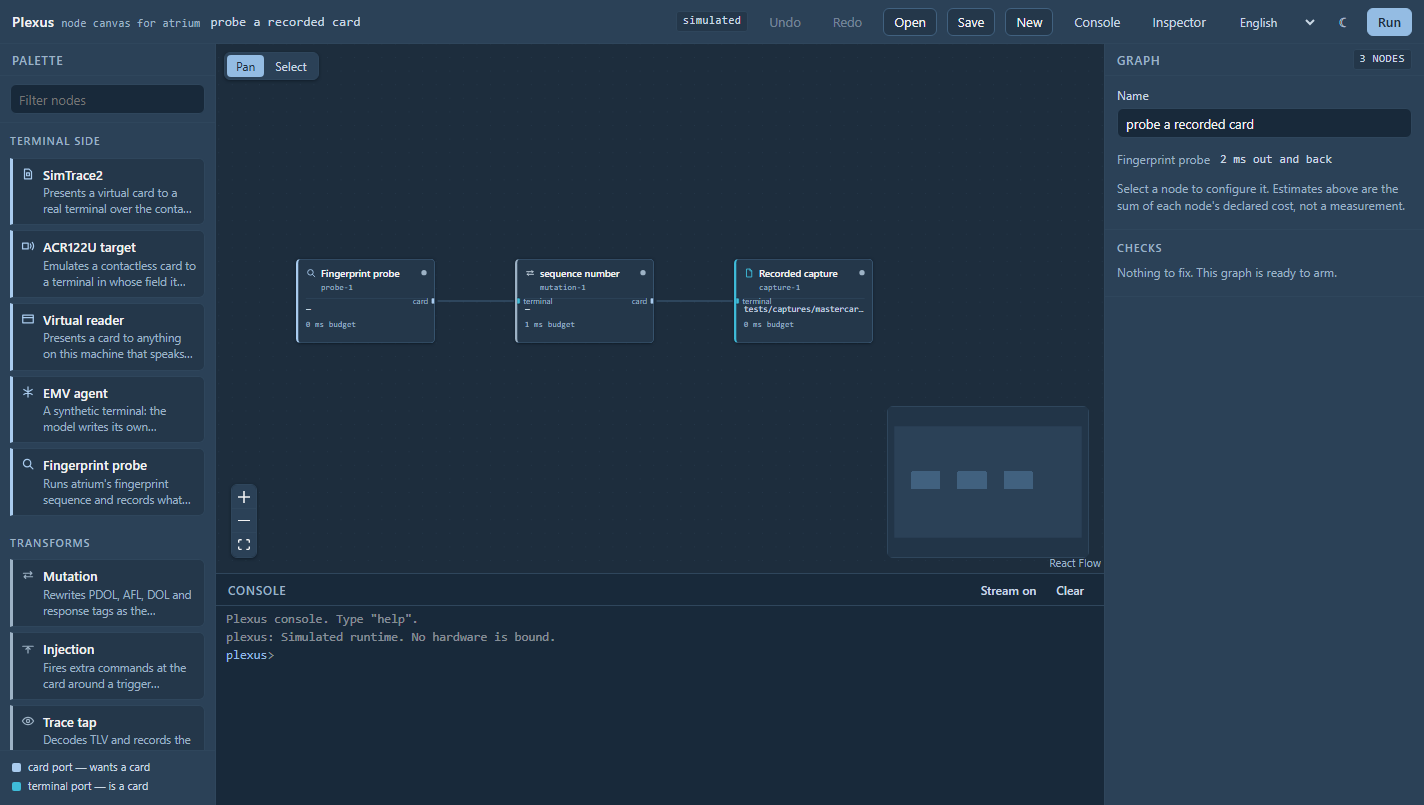
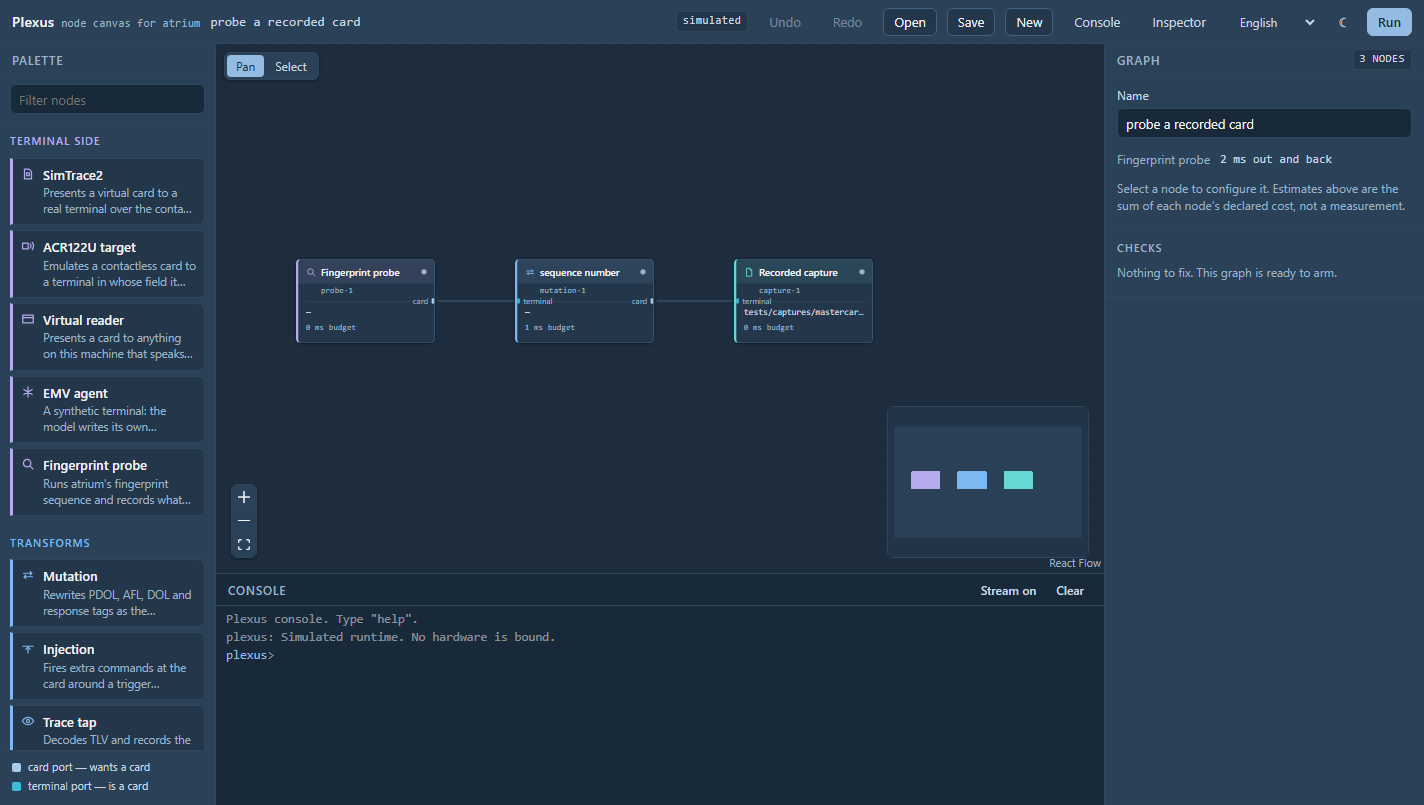
Give the three node classes their own colours
They were sharing the port tokens, which meant terminal side came out light
blue and transforms came out grey-blue — one colour and no colour. Ports say
what an edge *end* is; classes say which side of a conversation a node sits
on. Two facts, so now two systems.

Three steps of 40 degrees, in chain order, so the ramp itself carries meaning:
periwinkle asks, sky transforms, cyan answers. Forty degrees is about the least
that separates instantly at a 3px stripe and a 14px glyph, and it took three
attempts to get there — 10 degrees apart the first time, then 28, both of which
measured fine and read as the same colour.

Lightness could not help. On a navy ground all three have to be *light*: a
mid-tone azure came out at 3.58 against surface-2, so the light/dark/light
trick that works on white is unavailable and hue does all the work. Every value
clears 4.5 on all four grounds in both themes.

The class colour now drives four things — the stripe, the icon, a faint wash
behind the node's header, and the palette's group headings, which were three
identical grey labels you had to read. The minimap is coloured too, so the
overview shows the shape of a chain rather than four identical blocks.

`--port-iso` is retired into `--class-host`: it was within 1.009 luminance of
the new terminal periwinkle, and the iso8583 channel only ever appears on
host-layer nodes anyway.

The minimap took two goes. React Flow's `nodeColor` takes a function and
[…]

diff --git a/ui/src/canvas/canvas.css b/ui/src/canvas/canvas.css
@@ -66,9 +66,30 @@
   fill-opacity: 0.6;
 }
 
+/*
+ * Minimap blocks take their node's class colour, through the cascade rather
+ * than through a prop — see minimapClass. This is why the overview repaints
+ * correctly when the theme swaps.
+ */
 .react-flow__minimap-node {
-  fill: var(--border-strong);
   stroke: none;
+  fill: var(--border-strong);
+}
+
+.react-flow__minimap-node.mmnode--terminal {
+  fill: var(--class-terminal);
+}
+
+.react-flow__minimap-node.mmnode--transform {
+  fill: var(--class-transform);
+}
+
+.react-flow__minimap-node.mmnode--card {
+  fill: var(--class-card);
+}
+
+.react-flow__minimap-node.mmnode--host {
+  fill: var(--class-host);
 }
 
 /* ── Node card ────────────────────────────────────────────────────────── */
@@ -93,20 +114,41 @@
   cursor: grabbing;
 }
 
+/*
+ * The class stripe, its icon and a faint wash behind the header, all from one
+ * token per class. Three cues for the same fact: you should be able to tell
+ * which side of a conversation a node sits on without reading it.
+ */
 .pnode--terminal {
-  border-left-color: var(--port-card);
+  border-left-color: var(--class-terminal);
+}
+
+.pnode--terminal .pnode__head {
+  background: var(--class-terminal-wash);
 }
 
 .pnode--transform {
-  border-left-color: var(--text-faint);
+  border-left-color: var(--class-transform);
+}
+
+.pnode--transform .pnode__head {
+  background: var(--class-transform-wash);
 }
 
 .pnode--card {
-  border-left-color: var(--port-terminal);
+  border-left-color: var(--class-card);
+}
+
+.pnode--card .pnode__head {
+  background: var(--class-card-wash);
 }
 
 .pnode--host {
-  border-left-color: var(--port-iso);
+  border-left-color: var(--class-host);
+}
+
+.pnode--host .pnode__head {
+  background: var(--class-host-wash);
 }
 
 .pnode--broken {
@@ -136,6 +178,11 @@
   display: flex;
   align-items: center;
   gap: 6px;
+  /* Bled out to the card edges: the padding belongs to the card, but the wash
+   * reads as a header band rather than a floating rectangle. */
+  margin: -8px -10px 0;
+  padding: 7px 10px 5px;
+  border-radius: 3px 3px 0 0;
 }
 
 .pnode__icon {
@@ -143,19 +190,19 @@
 }
 
 .pnode--terminal .pnode__icon {
-  color: var(--port-card);
+  color: var(--class-terminal);
 }
 
 .pnode--transform .pnode__icon {
-  color: var(--text-dim);
+  color: var(--class-transform);
 }
 
 .pnode--card .pnode__icon {
-  color: var(--port-terminal);
+  color: var(--class-card);
 }
 
 .pnode--host .pnode__icon {
-  color: var(--port-iso);
+  color: var(--class-host);
 }
 
 .pnode__head .dot {

diff --git a/ui/src/theme/tokens.css b/ui/src/theme/tokens.css
@@ -69,8 +69,35 @@
   --port-card-wash: rgba(169, 203, 238, 0.16);
   --port-terminal: #3fbcd9;
   --port-terminal-wash: rgba(63, 188, 217, 0.16);
-  --port-iso: #bfa9ee;
-  --port-iso-wash: rgba(191, 169, 238, 0.16);
+  /* The iso8583 channel only ever appears on host-layer nodes, so it borrows
+   * that class's colour rather than being a near-duplicate of another. */
+  --port-iso: var(--class-host);
+  --port-iso-wash: rgba(230, 168, 219, 0.16);
+
+  /*
+   * Node classes: which side of a conversation a node sits on.
+   *
+   * A separate system from the port colours, which say what an *edge* end is.
+   * Reusing the ports for this made the classes hard to scan — terminal side
+   * and transforms came out light blue and grey-blue, which is one colour and
+   * no colour.
+   *
+   * Three steps of 40 degrees, in chain order, so the ramp itself carries
+   * meaning: periwinkle asks, sky transforms, cyan answers. Forty degrees is
+   * about the least that separates instantly at a 3px stripe and a 14px glyph,
+   * and on a navy ground all three have to be *light* — a mid-tone fails
+   * contrast — so hue does the work that lightness cannot.
+   */
+  --class-terminal: #b6abed;
+  --class-transform: #7db8f2;
+  --class-card: #64d8d4;
+  --class-host: #e6a8db;
+
+  /* Faint versions, for the wash behind a node's header. */
+  --class-terminal-wash: rgba(182, 171, 237, 0.1);
+  --class-transform-wash: rgba(125, 184, 242, 0.1);
+  --class-card-wash: rgba(100, 216, 212, 0.1);
+  --class-host-wash: rgba(230, 168, 219, 0.1);
 
   --edge: #41617f;
   --edge-live: #45c193;
@@ -127,8 +154,19 @@
   --port-card-wash: rgba(28, 127, 206, 0.14);
   --port-terminal: #0f6f8c;
   --port-terminal-wash: rgba(15, 111, 140, 0.14);
-  --port-iso: #6355ce;
-  --port-iso-wash: rgba(99, 85, 206, 0.14);
+  --port-iso: var(--class-host);
+  --port-iso-wash: rgba(168, 56, 150, 0.12);
+
+  /* The same three-step ramp, darkened for white. See the dark block. */
+  --class-terminal: #5239d0;
+  --class-transform: #125ca5;
+  --class-card: #19716e;
+  --class-host: #a83896;
+
+  --class-terminal-wash: rgba(82, 57, 208, 0.07);
+  --class-transform-wash: rgba(18, 92, 165, 0.07);
+  --class-card-wash: rgba(25, 113, 110, 0.07);
+  --class-host-wash: rgba(168, 56, 150, 0.07);
 
   --edge: #9db4d2;
   --edge-live: #1e4fbf;

diff --git a/ui/src/panels/panels.css b/ui/src/panels/panels.css
@@ -11,6 +11,27 @@
   padding: 10px 10px 4px;
 }
 
+/*
+ * The group heading takes its class's colour too. It is the thing you scan
+ * when looking for where a kind of node lives, and a column of identical grey
+ * headings makes you read all three.
+ */
+.palette__group--terminal > .panel-section__title {
+  color: var(--class-terminal);
+}
+
+.palette__group--transform > .panel-section__title {
+  color: var(--class-transform);
+}
+
+.palette__group--card > .panel-section__title {
+  color: var(--class-card);
+}
+
+.palette__group--host > .panel-section__title {
+  color: var(--class-host);
+}
+
 .palette__item {
   display: flex;
   align-items: flex-start;
@@ -38,41 +59,40 @@
 }
 
 .palette__item--terminal {
-  border-left-color: var(--port-card);
+  border-left-color: var(--class-terminal);
 }
 
 .palette__item--transform {
-  border-left-color: var(--text-faint);
+  border-left-color: var(--class-transform);
 }
 
 .palette__item--card {
-  border-left-color: var(--port-terminal);
+  border-left-color: var(--class-card);
 }
 
 .palette__item--host {
-  border-left-color: var(--port-iso);
+  border-left-color: var(--class-host);
 }
 
 .palette__item-icon {
   flex: none;
   margin-top: 2px;
-  color: var(--text-faint);
-}
-
-.palette__item:hover .palette__item-icon {
-  color: var(--text-dim);
 }
 
 .palette__item--terminal .palette__item-icon {
-  color: var(--port-card);
+  color: var(--class-terminal);
+}
+
+.palette__item--transform .palette__item-icon {
+  color: var(--class-transform);
 }
 
 .palette__item--card .palette__item-icon {
-  color: var(--port-terminal);
+  color: var(--class-card);
 }
 
 .palette__item--host .palette__item-icon {
-  color: var(--port-iso);
+  color: var(--class-host);
 }
 
 .palette__item-body {

diff --git a/ui/src/canvas/Canvas.tsx b/ui/src/canvas/Canvas.tsx
@@ -37,6 +37,25 @@ export const PALETTE_DRAG_TYPE = "application/x-plexus-node";
 
 const nodeTypes = { plexus: PlexusNodeView };
 
+/**
+ * A minimap block's class, so CSS can colour it.
+ *
+ * Deliberately not React Flow's `nodeColor`, which takes a function and
+ * memoises the minimap around it: the colours come from CSS custom properties
+ * that swap with the theme, and a prop read once at render time keeps whatever
+ * it was first given — switch to light and the blocks stay in the dark
+ * palette. A class name lets the cascade do it, which needs no re-render and
+ * cannot go stale.
+ */
+function minimapClass(node: Node<PlexusNodeData>): string {
+  const data = node.data as PlexusNodeData | undefined;
+  const key = data?.nodeId
+    ? useGraph.getState().graph.nodes.find((n) => n.id === data.nodeId)?.type
+    : undefined;
+  const nodeClass = key ? nodeType(key)?.nodeClass : undefined;
+  return nodeClass ? `mmnode mmnode--${nodeClass}` : "mmnode";
+}
+
 interface CanvasProps {
   problems: Problem[];
 }
@@ -293,7 +312,15 @@ export function Canvas({ problems }: CanvasProps) {
           color="var(--canvas-grid-major)"
         />
         <Controls showInteractive={false} />
-        <MiniMap pannable zoomable ariaLabel={t("canvas.overview")} />
+        {/* Class-coloured, so the overview shows the shape of the chain and
+            not just four identical blocks. */}
+        <MiniMap
+          pannable
+          zoomable
+          ariaLabel={t("canvas.overview")}
+          nodeClassName={minimapClass}
+          nodeStrokeWidth={0}
+        />
 
         <Panel position="top-left" className="tools">
           <div className="tools__group" role="group" aria-label={t("canvas.tool")}>

diff --git a/ui/src/panels/Palette.tsx b/ui/src/panels/Palette.tsx
@@ -70,7 +70,10 @@ export function Palette() {
 
       <div className="rail__scroll">
         {groups.map((group) => (
-          <section key={group.cls} className="palette__group">
+          <section
+            key={group.cls}
+            className={`palette__group palette__group--${group.cls}`}
+          >
             <h2 className="panel-section__title">{group.label}</h2>
             {group.items.map((type) => (
               <button
